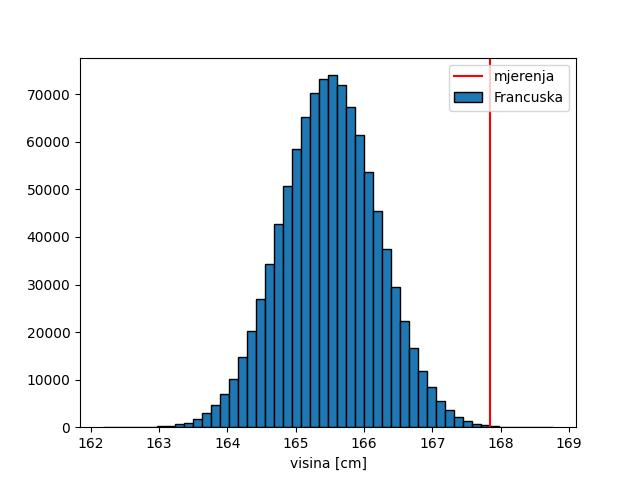
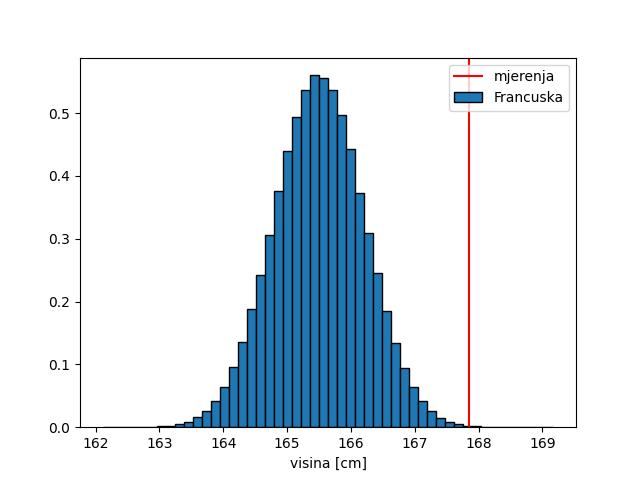
Add existing file

diff --git a/Vjezbe/Vjezbe_7/zd2.py b/Vjezbe/Vjezbe_7/zd2.py
@@ -64,10 +64,10 @@ p3=count/len(H3_data)
 CL3=1-p3/(1-p0)
 
 plt.axvline(x=m, color='red', label='mjerenja')
-plt.hist(H0_data, bins=50, edgecolor='black', label='Španjolska')
-plt.hist(H1_data, bins=50, edgecolor='black', label='Francuska')
-plt.hist(H2_data, bins=50, edgecolor='black', label='Italija')
-plt.hist(H3_data, bins=50, edgecolor='black', label='Nizozemska')
+plt.hist(H0_data, bins=50, edgecolor='black', label='Španjolska', density='True')
+plt.hist(H1_data, bins=50, edgecolor='black', label='Francuska', density='True')
+plt.hist(H2_data, bins=50, edgecolor='black', label='Italija', density='True')
+plt.hist(H3_data, bins=50, edgecolor='black', label='Nizozemska', density='True')
 plt.legend(loc=1)
 plt.xlabel('visina [cm]')
 plt.savefig("zd2.jpg")

diff --git a/Vjezbe/Vjezbe_7/zd1.py b/Vjezbe/Vjezbe_7/zd1.py
@@ -38,7 +38,7 @@ print(p)
 print(z_score)
 
 plt.axvline(x=m, color='red', label='mjerenja')
-plt.hist(H0_data, bins=50, edgecolor='black', label='Francuska')
+plt.hist(H0_data, bins=50, edgecolor='black', label='Francuska', density='True')
 plt.legend(loc=1)
 plt.xlabel('visina [cm]')
 plt.savefig("zd1.jpg")
